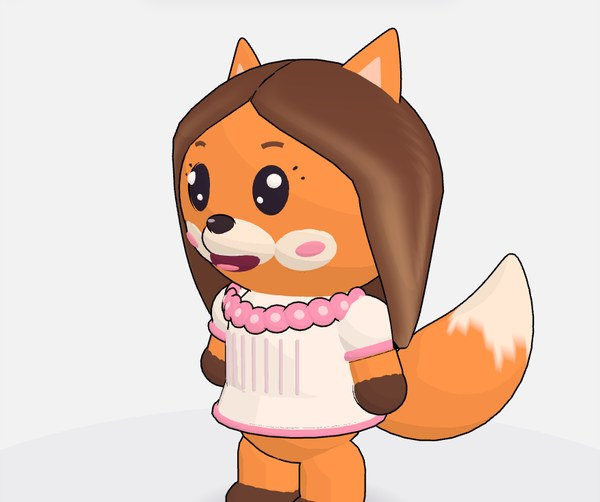
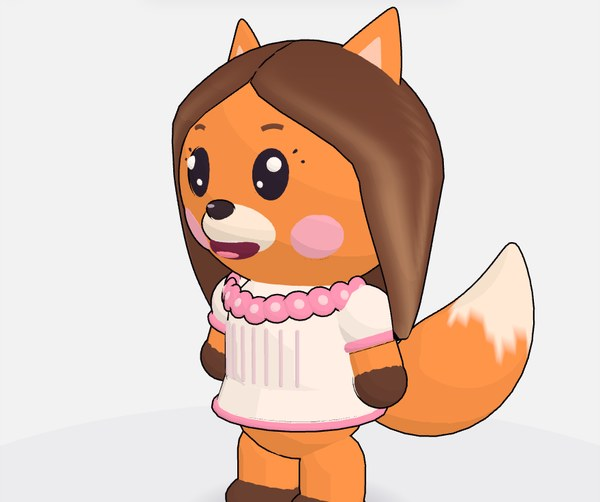
Review page for neb636/joy-look

diff --git a/neb636--joy-look/index.html b/neb636--joy-look/index.html
@@ -37,19 +37,13 @@ button:focus-visible,.pill:focus-visible{outline:3px solid var(--ink);outline-of
 </style></head><body><main>
 <span class="chip">Check-in fix</span>
 <h1>Joy: a fox that looks like Joy</h1>
-<p class="kaylee">Aunt Joy at Agong's house is a proper fox now, with Joy's long hair, big smile and lace blouse. New since your last notes: her puffy cheeks are back, flatter than the old ones, in two versions for you to choose.</p>
+<p class="kaylee">Aunt Joy at Agong's house is a proper fox now, with Joy's long hair, big smile and lace blouse. Newest: the pink puffy cheeks you chose, a little narrower and set out from her white snout.</p>
 
 
-<h2>Before and after</h2><div class="pics"><figure class="solo"><img src="pics/joy-cheeks-face.jpg" alt="Choose her cheeks" loading="lazy">
-<figcaption><b>Choose her cheeks</b>: A is in the game on this branch; B is one word away</figcaption></figure>
-<figure class="solo"><img src="pics/joy-cheeks-front.jpg" alt="From a little way off" loading="lazy">
-<figcaption><b>From a little way off</b>: How each reads at the size she is in the house</figcaption></figure>
-<figure class="solo"><img src="pics/joy-cheeks-faceq.jpg" alt="Turned" loading="lazy">
-<figcaption><b>Turned</b>: Both are low mounds, not the old cheek balls</figcaption></figure>
+<h2>Before and after</h2><div class="pics"><figure class="pair"><div><img src="pics/joy-face-before.jpg" alt="Before: Her face" loading="lazy"><span>Before</span></div><div><img src="pics/joy-face-after.jpg" alt="After: Her face" loading="lazy"><span>After</span></div>
+<figcaption><b>Her face</b>: Soft brows, pink puffy cheeks, the same big smile, no white beard</figcaption></figure>
 <figure class="pair"><div><img src="pics/joy-front-before.jpg" alt="Before: From the front" loading="lazy"><span>Before</span></div><div><img src="pics/joy-front-after.jpg" alt="After: From the front" loading="lazy"><span>After</span></div>
-<figcaption><b>From the front</b>: Smaller orange ears, a white snout, long parted hair with lighter strands, a collar of lace roses (A shown)</figcaption></figure>
-<figure class="pair"><div><img src="pics/joy-face-before.jpg" alt="Before: Her face" loading="lazy"><span>Before</span></div><div><img src="pics/joy-face-after.jpg" alt="After: Her face" loading="lazy"><span>After</span></div>
-<figcaption><b>Her face</b>: Soft brows, puffy cheeks, the same big smile, no white beard (A shown)</figcaption></figure>
+<figcaption><b>From the front</b>: Smaller orange ears, a white snout, long parted hair with lighter strands, a collar of lace roses</figcaption></figure>
 <figure class="pair"><div><img src="pics/joy-q-before.jpg" alt="Before: Three-quarter" loading="lazy"><span>Before</span></div><div><img src="pics/joy-q-after.jpg" alt="After: Three-quarter" loading="lazy"><span>After</span></div>
 <figcaption><b>Three-quarter</b>: A big bushy tail with a white tip, out to one side so it shows from the front</figcaption></figure>
 <figure class="pair"><div><img src="pics/joy-back-before.jpg" alt="Before: From behind" loading="lazy"><span>Before</span></div><div><img src="pics/joy-back-after.jpg" alt="After: From behind" loading="lazy"><span>After</span></div>
@@ -58,12 +52,11 @@ button:focus-visible,.pill:focus-visible{outline:3px solid var(--ink);outline-of
 <figcaption><b>In the house</b>: Downstairs at Agong's, where she lives in the game</figcaption></figure></div>
 
 
-<h2>Your call</h2><ol><li><p>Choose one: A (white cheeks) or B (pink cheeks)?</p><textarea rows="2" data-q="0" placeholder="Your answer (a word is fine)"></textarea></li>
-<li><p>Inside her ears is a paler orange so they still read as ears. Good, or plain orange all through?</p><textarea rows="2" data-q="1" placeholder="Your answer (a word is fine)"></textarea></li></ol><button id="copy">Copy my answers</button><p class="meta" id="done"></p><textarea id="answers" rows="5" readonly aria-label="Your answers, to copy"></textarea>
-<h2>Play it yourself (optional)</h2><p><a class="pill" href="../#/world/characters/joy?lineup=joy,joy-pink">A and B side by side in the lab</a> <a class="pill" href="../#/world/characters/joy?shot=face">A: white cheeks</a> <a class="pill" href="../#/world/characters/joy-pink?shot=face">B: pink cheeks</a> <a class="pill" href="../#/world/thailand/hub/downstairs">Downstairs at Agong's house (A)</a></p>
+<h2>Your call</h2><ol><li><p>Inside her ears is a paler orange so they still read as ears. Good, or plain orange all through?</p><textarea rows="2" data-q="0" placeholder="Your answer (a word is fine)"></textarea></li></ol><button id="copy">Copy my answers</button><p class="meta" id="done"></p><textarea id="answers" rows="5" readonly aria-label="Your answers, to copy"></textarea>
+<h2>Play it yourself (optional)</h2><p><a class="pill" href="../#/world/characters/joy">Turn her round in the character lab</a> <a class="pill" href="../#/world/characters/joy?lineup=joy,gan,ken,jum">Joy beside her boys and Jum</a> <a class="pill" href="../#/world/thailand/hub/downstairs">Downstairs at Agong's house</a></p>
 </main>
 <script>
-const qs=["Choose one: A (white cheeks) or B (pink cheeks)?","Inside her ears is a paler orange so they still read as ears. Good, or plain orange all through?"],titles=[]
+const qs=["Inside her ears is a paler orange so they still read as ears. Good, or plain orange all through?"],titles=[]
 let picked=''
 document.querySelectorAll('.pick').forEach(b=>b.addEventListener('click',async()=>{const t='Pick: '+titles[+b.dataset.p];picked=t
   document.querySelectorAll('.pick').forEach(o=>{o.classList.toggle('on',o===b);o.textContent=o===b?'✓ Picked':'Pick this one'})
